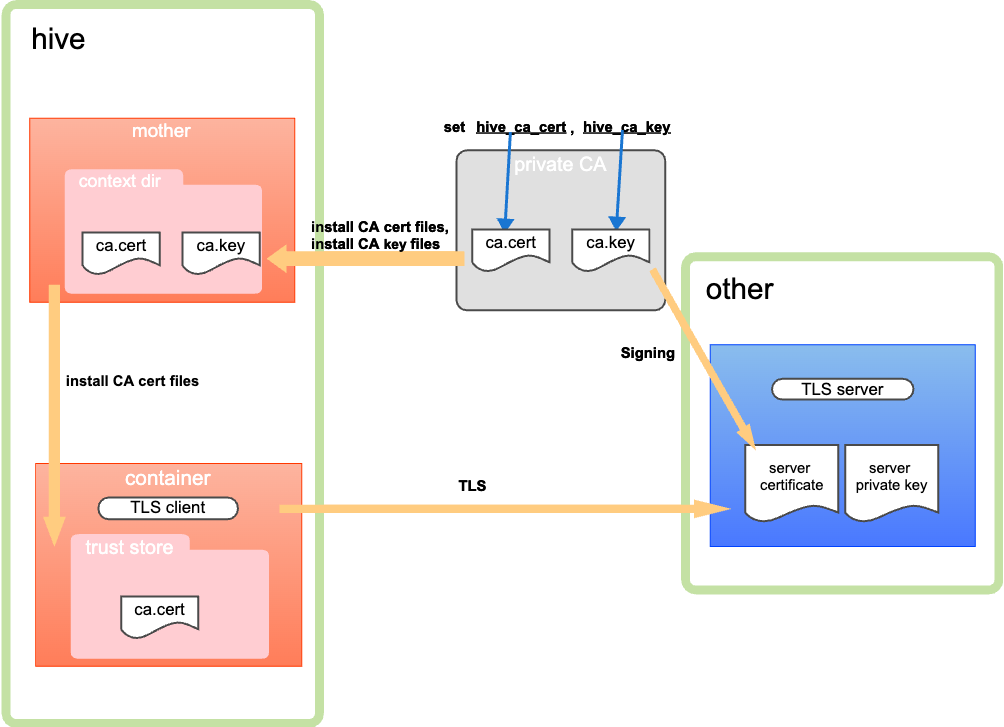
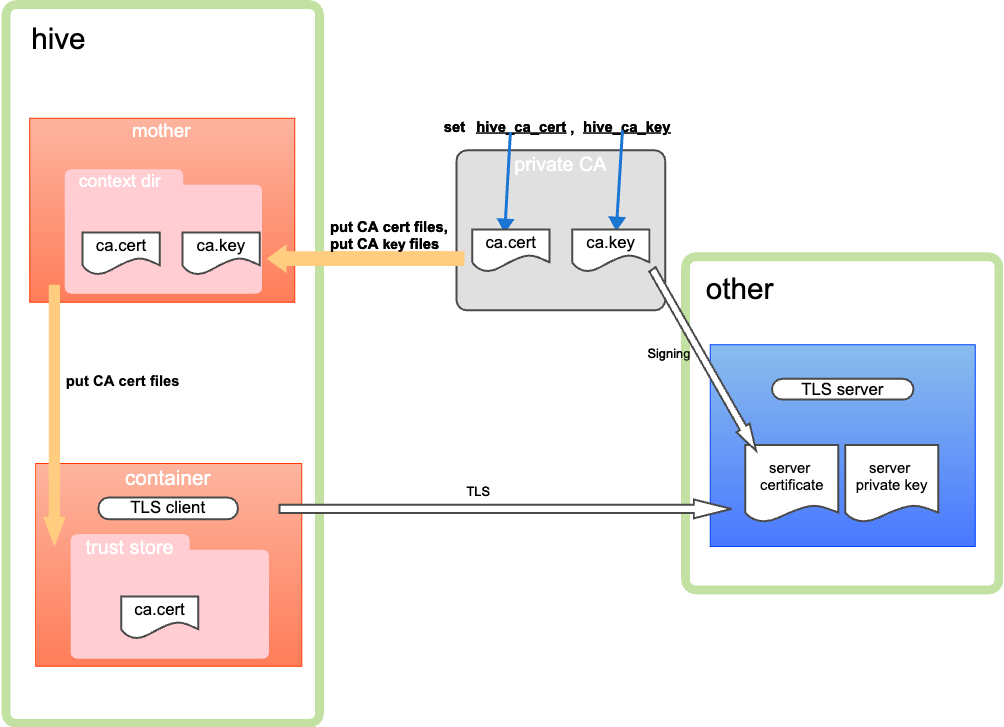
図の修正、タスク名の変更

diff --git a/docs/cashare.rst b/docs/cashare.rst
@@ -6,36 +6,56 @@ hive-builderでは必要に応じてCA局証明書の共有および証明書の
 コンテナをクライアントとして運用したい場合
 --------------------------------------------
 
-コンテナをクライアントとして運用する場合、1.サーバー証明書の信頼および2.コンテナへのクライアント証明書の付与ができるようになります。
+コンテナをクライアントとして運用する場合、1.CA局証明書の信頼および2.コンテナへのクライアント証明書の付与ができるようになります。
 
-1.サーバー証明書の信頼
-hiveの機能でCA局証明書をトラストストアにインストールするため、通信相手のサーバー証明書を信頼することが可能です。
-
-=========================== ========================
-タスク名                     内容
-=========================== ========================
-install CA cert files       CA局証明書をインストールする
-install CA key files        CA局の秘密鍵をインストールする
-builtin server CA           サーバー鍵を作成する
-builtin server certificate  サーバー証明書を作成する
-=========================== ========================
-
+1.CA局証明書の信頼
+hiveの機能でCA局証明書をトラストストアに配置するため、通信相手のサーバー証明書を検証することが可能です。
 
 .. image:: imgs/share_ca.png
    :align: center
 
+put CA cert files → CA局証明書をコンテキストディレクトリ、コンテナのトラストストアに配置する
+put CA key files → CA 局の秘密鍵をコンテキストディレクトリに配置する
+
 2.コンテナへのクライアント証明書の付与
 「1.サーバー証明書の信頼」を行った上でクライアント証明書を付与することで、TLS相互認証が可能となります。
 
-.. image:: imgs/set_client_certificate.png
+.. image:: imgs/set_client_cert.png
    :align: center
+
+put CA cert files → CA局証明書をコンテキストディレクトリ、コンテナのトラストストアに配置する
+put CA key files → CA 局の秘密鍵をコンテキストディレクトリに配置する
+server/client CSP → クライアント(サーバー)証明書のCSRを作成する
+server/client certificate → CA局証明書によるクライアント(サーバー)証明書への署名および証明書の生成を行う
 
 コンテナをサーバーとして運用したい場合
 --------------------------------------------
 コンテナをサーバーとして運用する場合、コンテナへのサーバー証明書の付与が可能です。
 
-.. image:: imgs/set_server_certificate.png
+.. image:: imgs/set_server_cert.png
    :align: center
+
+put CA cert files → CA局証明書をコンテキストディレクトリ、コンテナのトラストストアに配置する
+put CA key files → CA 局の秘密鍵をコンテキストディレクトリに配置する
+server/client CSP → クライアント(サーバー)証明書のCSRを作成する
+server/client certificate → CA局証明書によるクライアント(サーバー)証明書への署名および証明書の生成を行う
+
+※クライアント(サーバー)証明書およびクライアント(サーバー)の秘密鍵について
+---------------------------------------------------------------------------
+クライアント(サーバー)証明書およびクライアント(サーバー)の秘密鍵はアプリケーションごとにユーザーがコピーする必要があります。
+以下に生成した証明書および秘密鍵をコピーするタスクの例を示します。
+::
+
+    - name: install server/client cert file
+      copy:
+        src: "{{ hive_safe_ca_dir }}/{{ item.certificate_fqdn }}-server-cert.pem"
+        dest: /dd-cert.pem
+      with_items: "{{ certificates }}"
+    - name: install server/client key file
+      copy:
+        src: "{{ hive_safe_ca_dir }}/{{ item.certificate_fqdn }}-key.pem"
+        dest: /dd-key.pem
+      with_items: "{{ certificates }}"
 
 CA局証明書の共有
 ----------------------------------------
